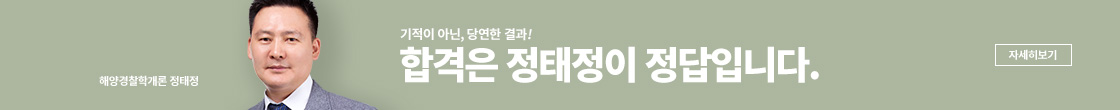
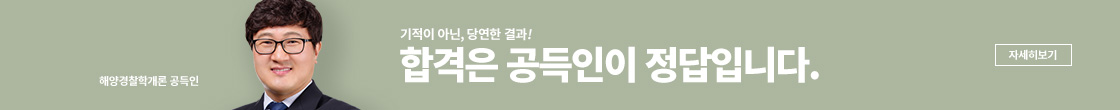
해양경찰, 해양경찰특채 메인

Changed region(s): [[0.1875, 0.0, 0.3438, 1.0], [0.4375, 0.4364, 0.5625, 0.7636], [0.1562, 0.6818, 0.1875, 0.7909]]

diff --git a/views/willbes/pc/site/main_2001_3007.blade.php b/views/willbes/pc/site/main_2001_3007.blade.php
@@ -9,19 +9,21 @@
         <div class="Section mt30">
             <div class="widthAuto bnrSec01">
                 <div>
-                    <a href="#"><img src="{{ img_url('cop_sea/banner/bnr_756_01.jpg') }}" alt="기본이론"></a>
+                    <a href="{{ site_url('/lecture/index/cate/3007/pattern/only?course_idx=1004') }}">
+                        <img src="{{ img_url('cop_sea/banner/bnr_756_01.jpg') }}" alt="기본이론">
+                    </a>
                 </div>
                 <ul>
-                    <li><a href="#"><img src="{{ img_url('cop_sea/banner/bnr_360_01.jpg') }}" alt="정태정 핵심이론"></a></li>
-                    <li><a href="#"><img src="{{ img_url('cop_sea/banner/bnr_360_02.jpg') }}" alt="공득인 핵심이론"></a></li>
+                    <li><a href="{{ site_url('/lecture/index/cate/3007/pattern/only?subject_idx=1031') }}"><img src="{{ img_url('cop_sea/banner/bnr_360_01.jpg') }}" alt="공득인 핵심이론"></a></li>
+                    <li><a href="{{ site_url('/lecture/show/cate/3007/pattern/only/prod-code/132243') }}"><img src="{{ img_url('cop_sea/banner/bnr_360_02.jpg') }}" alt="공득인 핵심이론"></a></li>
                 </ul>
             </div>
         </div>
 
         <div class="Section mt30">
             <div class="widthAuto bnrSec02">
-                <div><a href="#"><img src="{{ img_url('cop_sea/banner/bnr_1120_01.jpg') }}" alt="기본이론"></a></div>
-                <div><a href="#"><img src="{{ img_url('cop_sea/banner/bnr_1120_02.jpg') }}" alt="기본이론"></a></div>
+                <div><a href="{{ site_url('/professor/show/cate/3007/prof-idx/50547/?subject_idx=1004&subject_name=형사소송법') }}"><img src="{{ img_url('cop_sea/banner/bnr_1120_01.jpg') }}" alt="기본이론"></a></div>
+                <div><a href="#none"><img src="{{ img_url('cop_sea/banner/bnr_1120_02.jpg') }}" alt="기본이론"></a></div>
             </div>
         </div>
 
@@ -36,49 +38,49 @@
                         <img src="{{ img_url('cop_sea/prof/prof_ske.jpg') }}" alt="신광은">
                         <ul class="ProfBtns">
                             <li><a href="#none" onclick="fnPlayerProf('50547', 'OT');">▶</a></li>
-                            <li><a href="{{ front_url('/professor/show/cate/' . $__cfg['CateCode'] . '/prof-idx/50547/?subject_idx=1004&subject_name=%ED%98%95%EC%82%AC%EC%86%8C%EC%86%A1%EB%B2%95') }}" target="_blank">교수소개</a></li>
+                            <li><a href="{{ front_url('/professor/show/cate/' . $__cfg['CateCode'] . '/prof-idx/50547/?subject_idx=1004&subject_name=%ED%98%95%EC%82%AC%EC%86%8C%EC%86%A1%EB%B2%95') }}">교수소개</a></li>
                         </ul>
                     </li>
                     <li>
                         <img src="{{ img_url('cop_sea/prof/prof_kwu.jpg') }}" alt="김원욱">
                         <ul class="ProfBtns">
                             <li><a href="#none" onclick="fnPlayerProf('50297', 'OT');">▶</a></li>
-                            <li><a href="{{ front_url('/professor/show/cate/' . $__cfg['CateCode'] . '/prof-idx/50297/?subject_idx=1003&subject_name=%ED%98%95%EB%B2%95') }}" target="_blank">교수소개</a></li>
+                            <li><a href="{{ front_url('/professor/show/cate/' . $__cfg['CateCode'] . '/prof-idx/50297/?subject_idx=1003&subject_name=%ED%98%95%EB%B2%95') }}">교수소개</a></li>
                         </ul>
                     </li>
                     <li>
                         <img src="{{ img_url('cop_sea/prof/prof_hsm.jpg') }}" alt="하승민">
                         <ul class="ProfBtns">
                             <li><a href="#none" onclick="fnPlayerProf('50135', 'OT');">▶</a></li>
-                            <li><a href="{{ front_url('/professor/show/cate/' . $__cfg['CateCode'] . '/prof-idx/50135/?subject_idx=1001&subject_name=%EC%98%81%EC%96%B4') }}" target="_blank">교수소개</a></li>
-                        </ul>
-                    </li>
-                    <li>
-                        <img src="{{ img_url('cop_sea/prof/prof_otj.jpg') }}" alt="오태진">
-                        <ul class="ProfBtns">
-                            <li><a href="#none" onclick="fnPlayerProf('50131', 'OT');">▶</a></li>
-                            <li><a href="{{ front_url('/professor/show/cate/' . $__cfg['CateCode'] . '/prof-idx/50131/?subject_idx=1002&subject_name=%ED%95%9C%EA%B5%AD%EC%82%AC') }}" target="_blank">교수소개</a></li>
+                            <li><a href="{{ front_url('/professor/show/cate/' . $__cfg['CateCode'] . '/prof-idx/50135/?subject_idx=1001&subject_name=%EC%98%81%EC%96%B4') }}">교수소개</a></li>
                         </ul>
                     </li>
                     <li>
                         <img src="{{ img_url('cop_sea/prof/prof_wuc.jpg') }}" alt="원유철">
                         <ul class="ProfBtns">
                             <li><a href="#none" onclick="fnPlayerProf('50641', 'OT');">▶</a></li>
-                            <li><a href="{{ front_url('/professor/show/cate/' . $__cfg['CateCode'] . '/prof-idx/50641/?subject_idx=1002&subject_name=%ED%95%9C%EA%B5%AD%EC%82%AC') }}" target="_blank">교수소개</a></li>
+                            <li><a href="{{ front_url('/professor/show/cate/' . $__cfg['CateCode'] . '/prof-idx/50641/?subject_idx=1002&subject_name=%ED%95%9C%EA%B5%AD%EC%82%AC') }}">교수소개</a></li>
                         </ul>
                     </li>
                     <li>
-                        <img src="{{ img_url('cop_sea/prof/prof_jtj.jpg') }}" alt="정태정">
+                        <img src="{{ img_url('cop_sea/prof/prof_otj.jpg') }}" alt="오태진">
                         <ul class="ProfBtns">
-                            <li><a href="#none" onclick="fnPlayerProf('50655', 'OT');">▶</a></li>
-                            <li><a href="{{ front_url('/professor/show/cate/' . $__cfg['CateCode'] . '/prof-idx/50655/?subject_idx=1031&subject_name=%ED%95%B4%EC%96%91%EA%B2%BD%EC%B0%B0%ED%95%99%EA%B0%9C%EB%A1%A0') }}" target="_blank">교수소개</a></li>
+                            <li><a href="#none" onclick="fnPlayerProf('50131', 'OT');">▶</a></li>
+                            <li><a href="{{ front_url('/professor/show/cate/' . $__cfg['CateCode'] . '/prof-idx/50131/?subject_idx=1002&subject_name=%ED%95%9C%EA%B5%AD%EC%82%AC') }}">교수소개</a></li>
+                        </ul>
+                    </li>                    
+                    <li>
+                        <img src="{{ img_url('cop_sea/prof/prof_gdi2.jpg') }}" alt="공득인">
+                        <ul class="ProfBtns">
+                            <li><a href="#none">▶</a></li>
+                            <li><a href="#none">교수소개</a></li>
                         </ul>
                     </li>
                     <li>
                         <img src="{{ img_url('cop_sea/prof/prof_gdi.jpg') }}" alt="공득인">
                         <ul class="ProfBtns">
                             <li><a href="#none" onclick="fnPlayerProf('50301', 'OT');">▶</a></li>
-                            <li><a href="{{ front_url('/professor/show/cate/' . $__cfg['CateCode'] . '/prof-idx/50301/?subject_idx=1030&subject_name=%ED%95%B4%EC%82%AC%EB%B2%95%EA%B7%9C') }}" target="_blank">교수소개</a></li>
+                            <li><a href="{{ front_url('/professor/show/cate/' . $__cfg['CateCode'] . '/prof-idx/50301/?subject_idx=1030&subject_name=%ED%95%B4%EC%82%AC%EB%B2%95%EA%B7%9C') }}">교수소개</a></li>
                         </ul>
                     </li>
                 </ul>

diff --git a/views/willbes/pc/site/main_2001_3008.blade.php b/views/willbes/pc/site/main_2001_3008.blade.php
@@ -9,8 +9,8 @@
         <div class="Section mt30">
             <div class="widthAuto bnrSec01">
                 <ul>
-                    <li><a href="#"><img src="{{ img_url('cop_sea_special/banner/bnr_556_01.jpg') }}" alt="정태정 핵심이론"></a></li>
-                    <li><a href="#"><img src="{{ img_url('cop_sea_special/banner/bnr_556_02.jpg') }}" alt="공득인 핵심이론"></a></li>
+                    <li><a href="{{ site_url('/package/index/cate/3008/pack/648002') }}"><img src="{{ img_url('cop_sea_special/banner/bnr_556_01.jpg') }}" alt="정태정 핵심이론"></a></li>
+                    <li><a href="{{ site_url('/lecture/index/cate/3008/pattern/only?course_idx=1010') }}"><img src="{{ img_url('cop_sea_special/banner/bnr_556_02.jpg') }}" alt="공득인 핵심이론"></a></li>
                 </ul>
             </div>
         </div>
@@ -26,7 +26,9 @@
 
         <div class="Section mt8">
             <div class="widthAuto">
-                <a href="#"><img src="{{ img_url('cop_sea_special/banner/bnr_1120_01.jpg') }}" alt="정태정 핵심이론"></a>
+                <a href="/package/index/cate/3008/pack/648002">
+                    <img src="{{ img_url('cop_sea_special/banner/bnr_1120_01.jpg') }}" alt="교수님 T-pass">
+                </a>
             </div>
         </div>
 
@@ -45,10 +47,10 @@
                         </ul>
                     </li>
                     <li>
-                        <img src="{{ img_url('cop_sea_special/prof/prof_jtj.jpg') }}" alt="정태정">
+                        <img src="{{ img_url('cop_sea_special/prof/prof_gdi2.jpg') }}" alt="공득인">
                         <ul class="ProfBtns">
-                            <li><a href="#none" onclick="fnPlayerProf('50655', 'OT');">▶</a></li>
-                            <li><a href="{{ front_url('/professor/show/cate/' . $__cfg['CateCode'] . '/prof-idx/50655/?subject_idx=1031&subject_name=%ED%95%B4%EC%96%91%EA%B2%BD%EC%B0%B0%ED%95%99%EA%B0%9C%EB%A1%A0') }}" target="_blank">교수소개</a></li>
+                            <li><a href="#none">▶</a></li>
+                            <li><a href="#none" target="_blank">교수소개</a></li>
                         </ul>
                     </li>
                     <li>

diff --git a/views/willbes/pc/site/main_2001_3001.blade.php b/views/willbes/pc/site/main_2001_3001.blade.php
@@ -188,19 +188,19 @@
                         </ul>
                     </li>
                     <li>
-                        <img src="{{ img_url('cop/prof/prof_otj.jpg') }}" alt="오태진">
-                        <ul class="ProfBtns">
-                            <li><a href="#none" onclick="fnPlayerProf('50131', 'OT');">▶</a></li>
-                            <li><a href="{{ front_url('/professor/show/cate/' . $__cfg['CateCode'] . '/prof-idx/50131/?subject_idx=1002&subject_name=%ED%95%9C%EA%B5%AD%EC%82%AC') }}" target="_blank">교수소개</a></li>
-                        </ul>
-                    </li>
-                    <li>
                         <img src="{{ img_url('cop/prof/prof_wyc.jpg') }}" alt="원유철">
                         <ul class="ProfBtns">
                             <li><a href="#none" onclick="fnPlayerProf('50641', 'OT');">▶</a></li>
                             <li><a href="{{ front_url('/professor/show/cate/' . $__cfg['CateCode'] . '/prof-idx/50641/?subject_idx=1002&subject_name=%ED%95%9C%EA%B5%AD%EC%82%AC') }}" target="_blank">교수소개</a></li>
                         </ul>
                     </li>
+                    <li>
+                        <img src="{{ img_url('cop/prof/prof_otj.jpg') }}" alt="오태진">
+                        <ul class="ProfBtns">
+                            <li><a href="#none" onclick="fnPlayerProf('50131', 'OT');">▶</a></li>
+                            <li><a href="{{ front_url('/professor/show/cate/' . $__cfg['CateCode'] . '/prof-idx/50131/?subject_idx=1002&subject_name=%ED%95%9C%EA%B5%AD%EC%82%AC') }}" target="_blank">교수소개</a></li>
+                        </ul>
+                    </li>                    
                     <li>
                         <img src="{{ img_url('cop/prof/prof_khj.jpg') }}" alt="김현정">
                         <ul class="ProfBtns">
